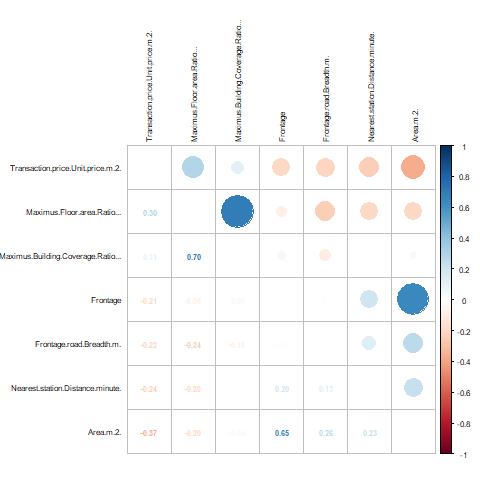
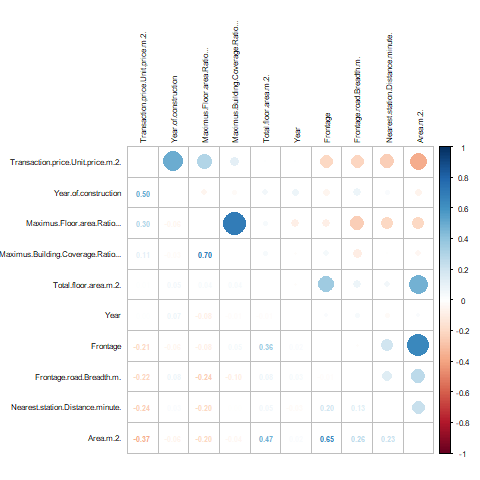
update random forest

diff --git a/README.md b/README.md
@@ -234,8 +234,8 @@ Raw %>%
 5 Residential Land(Land Only)         13859
 
 # 1935 is a fake number to those house properties built before WWII.
-Raw$Year.of.construction[which(Raw$Type == "Pre-owned Condominiums, etc.")] <- 1935
-Raw$Year.of.construction[which(Raw$Type == "Residential Land(Land and Building)")] <- 1935
+Raw$Year.of.construction[which(Raw$Type == "Pre-owned Condominiums, etc." & is.na(Raw$Year.of.construction))] <- 1935
+Raw$Year.of.construction[which(Raw$Type == "Residential Land(Land and Building )" & is.na(Raw$Year.of.construction))] <- 1935
 Raw$Year.of.construction <- as.numeric(Raw$Year.of.construction)
 
 # Check the NAs in Year.of.construction again, all NAs should be obtained only in land properties
@@ -328,38 +328,22 @@ There are 10 numeric variables, and 16 categoric variables.
 
 The data wrangling part ends here. Be reminded that we still need to do one-hot encoding for non-ordinal factor variables. We will handle this in modeling section.
 
-### 4.3.6 Split data into train and test dataset
-Then I split the data into train and test dataset. I use 75% of sample as train dataset. The other 25% are left for test dataset. I save both datasets as csv file.
-
-```{r}
-## 75% of the sample size
-smp_size <- floor(0.75 * nrow(Raw))
-
-## set the seed to make your partition reproducible
-set.seed(120)
-train_ind <- sample(seq_len(nrow(Raw)), size = smp_size)
-
-train <- Raw[train_ind, ]
-test <- Raw[-train_ind, ]
-
-# Save train and test data into csv files
-write.csv(train,file.path(dir,"Raw","train.csv"))
-write.csv(test,file.path(dir,"Raw","test.csv"))
-```
-
 # 5. Exploring variables
 ## 5.1. The depenent variable, Transaction.price.Unit.price.m2. (Unit price)
 Transaction.price.Unit.price.m2. is our dependent variable, or Y. For simplicity, we will call it as unit price from now. Let's check the distribution first. Apparently the distribution is right skewed and it is because only a few real estates are transacted with high prices. Those data are so0called outliers. Let's keep the data now but will remove those data before modeling.
 
 ```{r}
-# Visualize the transaction price per square meter
-ggsave(file.path(dir,"Result","Transaction.price.Unit.price.m2.png"))
-ggplot(data=train[!is.na(train$Transaction.price.Unit.price.m.2.),], aes(x=Transaction.price.Unit.price.m.2.)) +
-  geom_histogram(fill="blue", binwidth = 10000) 
-#dev.off()
+# Visualize the transaction price-----------------------------------------------------------------------------------------
+# We only consier house price
+all <- Raw %>%
+  filter(Use == "House")
 
+ggsave(file.path(dir,"Result","Transaction.price.Unit.price.m2.png"))
+ggplot(data=all[!is.na(all$Transaction.price.Unit.price.m.2.),], aes(x=Transaction.price.Unit.price.m.2.)) +
+  geom_histogram(fill="blue", binwidth = 10000) 
+dev.off()
 ```
-![Transaction.price.Unit.price.m2.](/Result/Transaction.price.Unit.price.m2.png?raw=true)
+![Transaction.price.Unit.price.m2](/Result/Transaction.price.Unit.price.m2.png?raw=true)
 
 ```{r}
 # Have a summary of Transaction.price.Unit.price.m2.
@@ -367,31 +351,31 @@ summary_Transaction.price.Unit.price.m2. <- summary(train$Transaction.price.Unit
 summary_Transaction.price.Unit.price.m2.
 
 ## Min. 1st Qu.  Median    Mean 3rd Qu.    Max.    NA's 
-##   10   30323   71198   92117  130000 1507692      11 
+##   10   30556   72727   92688  130000 1507692      13
 ```
 ## 5.2. The correlation between numeric variables and the unit price
-We can check the unit price is affected which numeric variables most. 
+We then check the unit price is affected by which numeric variables most. Apparently, the unit price is positively correlated with the year that the house was built, with a correlation coefficient of 0.5. Newer houses are more expensive, very reasonable. Interestingly, the size of the house has a negative correlation with the unit price (-0.37). It seems people prefer the smaller houses. We also find many variables are correlated, such as Maximus.Building.Coverage.Ratio... and Maximus.Floor.area.Ratio.... We will remove one of those correlated variables before modeling.
 
 ```{r}
-summary_Transaction.price.Unit.price.m2. <- summary(all$Transaction.price.Unit.price.m.2.)
-summary_Transaction.price.Unit.price.m2.
-
 numericVars <- which(sapply(all, is.numeric))
 all_numVar <- all[, numericVars]
 cor_numVar <- cor(all_numVar, use="pairwise.complete.obs") #correlations of all numeric variables
 
 # Sort on decreasing correlations with Transaction.price.Unit.price.m.2.
 cor_sorted <- as.matrix(sort(cor_numVar[,'Transaction.price.Unit.price.m.2.'], decreasing = TRUE))
-# Select only high corelations
-CorHigh <- names(which(apply(cor_sorted, 1, function(x) abs(x)>0.01)))
-cor_numVar <- cor_numVar[CorHigh, CorHigh]
+# Display all correlation
+Cor <- names(which(apply(cor_sorted, 1, function(x) abs(x)>0.)))
+cor_numVar <- cor_numVar[Cor, Cor]
 
+png(file.path(dir,"Result","CorrelationvarNum.png"))
 corrplot.mixed(cor_numVar, tl.col="black", tl.pos = "lt", tl.cex = 0.7,cl.cex = .7, number.cex=.7)
+dev.off()
 ```
 
 ![CorrelationvarNum](/Result/CorrelationvarNum.png?raw=true)
-### 5.2.1. Correlation with Transaction.price.total.
-Let's see how many numeric variables first.
+### 5.2.1. The correlation between categorical (factor) variables and the unit price.
+We move to check the correlation between categorical variables (factor variables) and the unit price with a method called random forest. However, random forest cannot handle variables with NAs, either factor variables with more than 53 levels. We choose the top 53 frequent stations and areas for this analysis.Finally, we need to exclude NAs from the data. We "impute" those NAs by using random forest, and yes, perform random forest again to draw the important variables from this imputed data.
+
 ```{r}
 # Check the numeric variables
 numericVars <- which(sapply(Raw, is.numeric)) #index vector numeric variables
